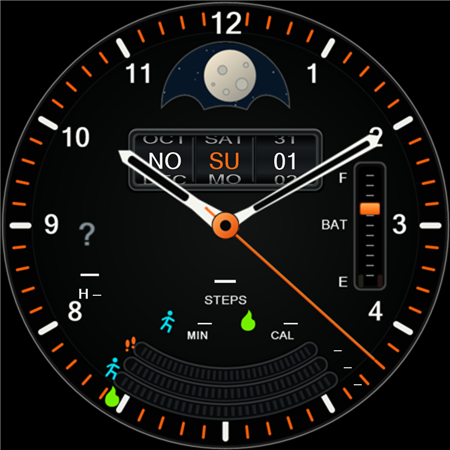
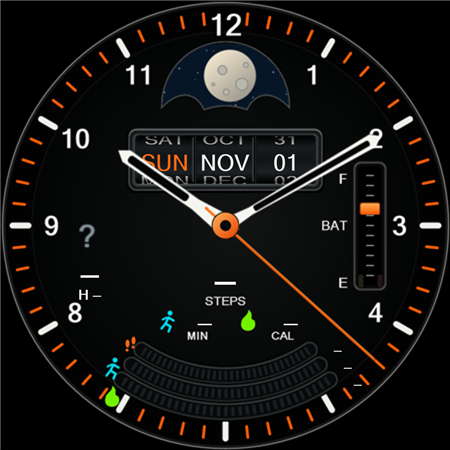
Match always-on mockup and make mechanical tick visible

diff --git a/docs/validation.md b/docs/validation.md
@@ -1,10 +1,11 @@
 # Validation record
 
 2026-11-01. Windows, Android SDK 36 / build-tools 36.0.0, Android Studio JDK 25,
-Gradle 9.3.1, AGP 9.1.1. Version 0.3.0 was installed and activated on the
+Gradle 9.3.1, AGP 9.1.1. Version 0.4.0 was installed and activated on the
 physical SM-R950. Awake rendering, live step text/gauge, and native weather
 current temperature / high / condition were observed. Goal synchronization,
-source-app comparisons, ambient behavior, and battery-life checks are pending.
+source-app comparisons, extended ambient behavior, and battery-life checks are
+pending. Ambient rendering and Samsung display offload were observed on-device.
 
 | Check | Result |
 | --- | --- |
@@ -16,13 +17,14 @@ source-app comparisons, ambient behavior, and battery-life checks are pending.
 | Gradle resource-only assertion and Android lint | Passed; lint has 0 errors and 5 warnings |
 | Calendar / data / bounds contracts | Passed, including 2,192 dates |
 | Google WFF memory evaluator | Passed 10 MiB active / 4 MiB ambient budgets |
-| Maximum active decoded-resource estimate | 4,326,532 bytes (4.13 MiB) |
-| Maximum ambient decoded-resource estimate | 835,872 bytes (0.80 MiB) |
-| Physical watch install / activation / awake rendering | Passed with 0.3.0; inset 3/9, lowered calendar, live metal band, and enabled seconds observed |
-| Mechanical tick motion | Native 80 ms Tick; overshoot and return observed in screen recording |
+| Maximum active decoded-resource estimate | 4,356,632 bytes (4.15 MiB) |
+| Maximum ambient decoded-resource estimate | 1,645,872 bytes (1.57 MiB) |
+| Physical watch install / activation / awake rendering | Passed with 0.4.0; weekday/month/date order and stronger tick |
+| Mechanical tick motion | Native 180 ms Tick, strength 0.5; about 1.4–1.5 degrees of overshoot and return observed |
+| Ambient rendering | Orange hands, selected calendar and battery; white hour markers on black; captured while Dozing with display offload active |
 | Samsung steps payload | Live RANGED_VALUE observed from Samsung Health steps service; explicit goal not established |
 | Native weather availability | Unavailable state followed by current temperature, daily high, and condition icon |
-| Other activity payloads / source-app comparisons / ambient / battery life | Pending |
+| Other activity payloads / source-app comparisons / extended ambient transitions / battery life | Pending |
 | Watch identity and installed provider declarations | Verified; see `device-providers.md` |
 
 The five lint warnings are the available newer Gradle version and four sets of
@@ -71,12 +73,20 @@ adjacent live text is compressed vertically to 58% and partly hidden by a
 cropped 200-by-68 foreground bezel with shadows. This is a static visual
 projection of a drum, with calendar fields still updating only as needed.
 
-Seconds now use native [`Tick`](https://developer.android.com/reference/wear-os/wff/clock/tick)
-with duration 0.08 and strength 0.2. The option defaults to enabled, with a new
-configuration ID so an existing installation receives the requested default.
-Two ticks in a 4.35-second recording exhibited approximately 0.28 degrees of
-overshoot followed by return; sparse captured frames do not establish an exact
-frame count for every tick. No continuous sweep or millisecond expression was
-introduced. The native renderer handles the short burst; real battery impact
-still needs measurement. The cropped rim is hidden with the active dial in
-ambient, and seconds remain gated by ambient mode and the 15% cutoff.
+Seconds use native [`Tick`](https://developer.android.com/reference/wear-os/wff/clock/tick),
+enabled by default. The original 80 ms / strength 0.2 setting produced only
+about 0.28 degrees of settling and was not noticeable on the wrist. Version
+0.4.0 uses 180 ms / strength 0.5. A 4.78-second recording captured several ticks
+with about 1.4–1.5 degrees of overshoot and return. Sparse recorded frames do
+not establish an exact frame count for every tick. No continuous sweep or
+millisecond expression was introduced; battery impact still needs measurement.
+
+The always-on scene follows `Always On Original Mockup.png`, with dedicated
+orange skeleton hand assets, a black-centered orange hub, selected calendar
+fields, and an orange battery gauge with threshold lamps. White hour markers
+and 12/3/6/9 sit on black. Both calendars use weekday/month/date order and share
+the same date expressions. Seconds, neighboring drum entries, moon, weather,
+and activity graphics are absent in ambient. The physical watch reported
+Dozing and active display offload when its ambient screenshot was captured.
+The preview renderer uses typographic text bounds to avoid losing the final
+letter when Windows substitutes a wider font for unavailable Arial Narrow.

diff --git a/docs/device-acceptance.md b/docs/device-acceptance.md
@@ -1,8 +1,8 @@
 # Watch6 device acceptance
 
-Status: **0.3.0 installed, activated, and rendering on the SM-R950** on
+Status: **0.4.0 installed, activated, and rendering on the SM-R950** on
 2026-11-01. ADB activation succeeded and an awake screenshot confirmed the
-analog hands, moon disc, correct NOV / SUN / 01 drums, battery slider, live
+analog hands, moon disc, correct SUN / NOV / 01 drums, battery slider, live
 steps, and native current temperature / daily high / weather icon. Weather
 initially showed the unavailable state, then populated without changing the
 selected mode. The step source resolved to Samsung Health's steps service and
@@ -14,17 +14,22 @@ the exposed toothed track. Cyan/green filled bands are shown in the illustrative
 previews; their providers remain unset on the watch. Schema, memory, Gradle
 resource-only, lint, and expression/geometry checks pass for this revision.
 
-The 0.3.0 screenshot confirms clear inner-radius 3/9 numerals, the inset battery
-assembly, and the lowered calendar with foreshortened neighbors behind its rim.
-A short screen recording confirms seconds moving past a mark and returning:
-two captured ticks show about 0.28 degrees of settling motion (roughly 5% of a
-six-degree step). This is a pixel-derived observation, not precision timing.
-The native Tick is configured for 80 ms, strength 0.2, with seconds enabled by
-default. Ambient and low-battery suppression still require physical testing.
+The awake layout has clear inner-radius 3/9 numerals, an inset battery assembly,
+and a lowered calendar with foreshortened neighbors behind its rim. Both modes
+now read weekday / month / date. The initial 80 ms tick was too subtle on the
+wrist; 0.4.0 uses 180 ms and strength 0.5. A recording captured about 1.4–1.5
+degrees of overshoot and return, roughly 25% of a six-degree step. These are
+pixel-derived observations, not precision timing.
+
+Ambient rendering was captured while the watch reported `Dozing`, with Samsung
+display offload active. The new mockup's orange hands/calendar/battery and white
+hour markers render on black; seconds and the normal mode's other displays are
+absent. Low-battery behavior and longer-term ambient transitions still need
+physical testing.
 
 See [installed provider findings](device-providers.md). Goal synchronization,
 active minutes/calories, comparison against the source apps, editor behavior,
-ambient rendering, and battery-life measurements remain pending. The successful
+extended ambient transitions, and battery-life measurements remain pending. The successful
 activation does not by itself confirm the face appears in every picker view.
 
 1. Confirm `SM-R950`, API 36, and the installed One UI/Samsung Health/Weather
@@ -54,8 +59,9 @@ activation does not by itself confirm the face appears in every picker view.
    health data solely to test rollover; use a test device or controlled preview.
 9. Check the default mechanical seconds and editor toggle, then test at 15% and below: seconds must disappear,
    with no flashing effects. Yellow lamp activates at 20%, red at 10%.
-10. Check always-on: no weather, activity tracks, moon, calendar, seconds, or
-    bright texture. Only dim hour/minute hands and sparse indices remain. Check
+10. Check always-on: orange hands, weekday/month/date, battery and low-battery
+    lamps; white hour markers and 12/3/6/9; black background. No weather,
+    activity tracks, moon, neighboring drum labels, or seconds. Check
     ambient transitions, burn-in shifting, lock/unlock, wake, and relaunch.
 11. Measure a representative full-day battery run against a stock face with
     equal AOD, brightness, connectivity, and activity settings. Turn off wireless

diff --git a/README.md b/README.md
@@ -13,15 +13,18 @@ bands have a metallic sheen and sharp cut edges; fine rack teeth are exposed
 in the unfilled recessed tracks. Date changes are instantaneous, not animated.
 The 3 and 9 share the inner numeral radius. The lowered calendar window partly
 covers vertically foreshortened adjacent labels to suggest rotating drums.
-Mechanical seconds default **on**: each second has a brief native 80 ms tick,
+Both calendars read **weekday, month, date**. Mechanical seconds default
+**on**: each second has a brief native 180 ms tick,
 a small overshoot, and a return to the correct mark. The editor can disable
-seconds; they disappear at 15% battery or below. Always-on mode keeps only
-dimmed hour/minute hands and sparse indices on black.
+seconds; they disappear at 15% battery or below. Always-on mode follows the
+[always-on mockup](Mockup%20Images/Always%20On%20Original%20Mockup.png): orange
+hour/minute hands, selected calendar values, and a battery gauge, with white
+hour marks and 12/3/6/9 on black.
 
 ![Illustrative normal artwork composite](docs/previews/normal.png)
 
 These [normal](docs/previews/normal.png), [low-battery](docs/previews/low-battery.png),
-[ambient](docs/previews/ambient.png), [empty-data](docs/previews/unavailable.png),
+[ambient](docs/previews/ambient.png), [ambient low battery](docs/previews/ambient-low-battery.png), [empty-data](docs/previews/unavailable.png),
 and [seconds](docs/previews/seconds.png) previews are Windows artwork
 composites, **not Wear OS screenshots**. Their example activity values/goals and
 weather come from the mockup and are not built into the live face.
@@ -32,10 +35,10 @@ The [data-source verification](docs/data-sources.md) was written before the data
 displays. Samsung Health phone SDK data and actual on-watch complication
 availability are different interfaces. Installed service declarations and their
 supported types have now been [verified on the watch](docs/device-providers.md).
-Version 0.3.0 is installed and active on the physical watch. Awake rendering,
+Version 0.4.0 is installed and active on the physical watch. Awake and ambient rendering,
 live Samsung Health steps (`RANGED_VALUE`), and native weather current / high /
 condition have been observed. Goal synchronization, source-app comparisons,
-other activity payloads, ambient behavior, and battery-life measurements still
+other activity payloads, extended ambient behavior, and battery-life measurements still
 need [device acceptance checks](docs/device-acceptance.md).
 
 * Steps default to the system step-count complication. Do not assume this is the

diff --git a/docs/data-sources.md b/docs/data-sources.md
@@ -100,10 +100,13 @@ Sources: [WFF weather availability and staleness](https://developer.android.com/
 
 No executable application code, networking permission, location polling, heart
 rate sampling, alarms, or wake locks. Native clock hands and provider/system
-updates drive the face. Mechanical seconds default on, with a native 80 ms
+updates drive the face. Mechanical seconds default on, with a native 180 ms
 overshoot-and-return tick once per second. They can be disabled in the editor
 and disappear at 15% battery or less. Date drums and the mechanical
 disc use date/moon sources rather than millisecond expressions. The native moon
 position is coarse (0–28); the decorative two-moon disc is not an astronomical
-ephemeris. Ambient mode displays dimmed hour/minute hands and sparse white
-indices only. Actual battery life must be measured on the watch.
+ephemeris. Ambient mode displays orange hour/minute hands, the selected weekday,
+month, and date, a battery slider with threshold lamps, and white hour markers
+with 12/3/6/9. The ambient scene has no seconds, weather, moon, activity tracks,
+or adjacent calendar entries. Samsung display offload was observed active.
+Actual battery life must be measured on the watch.
